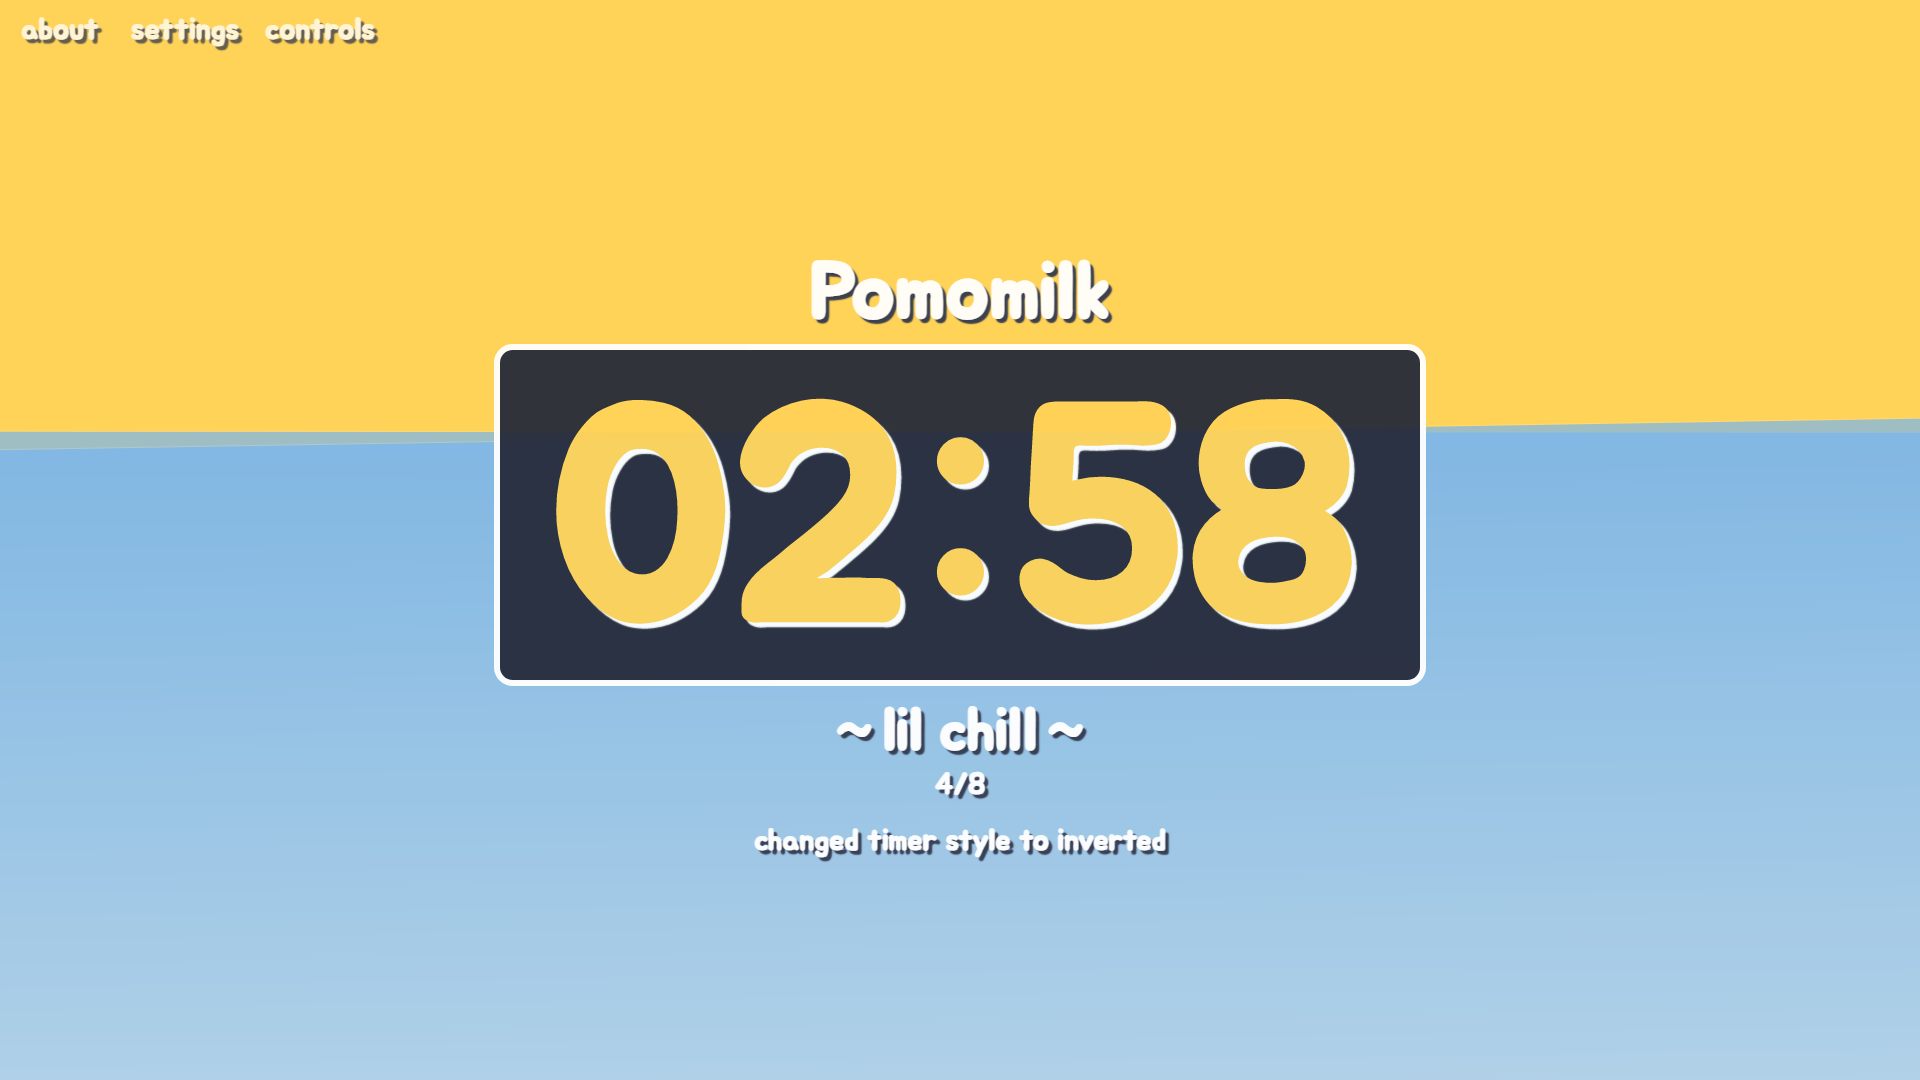
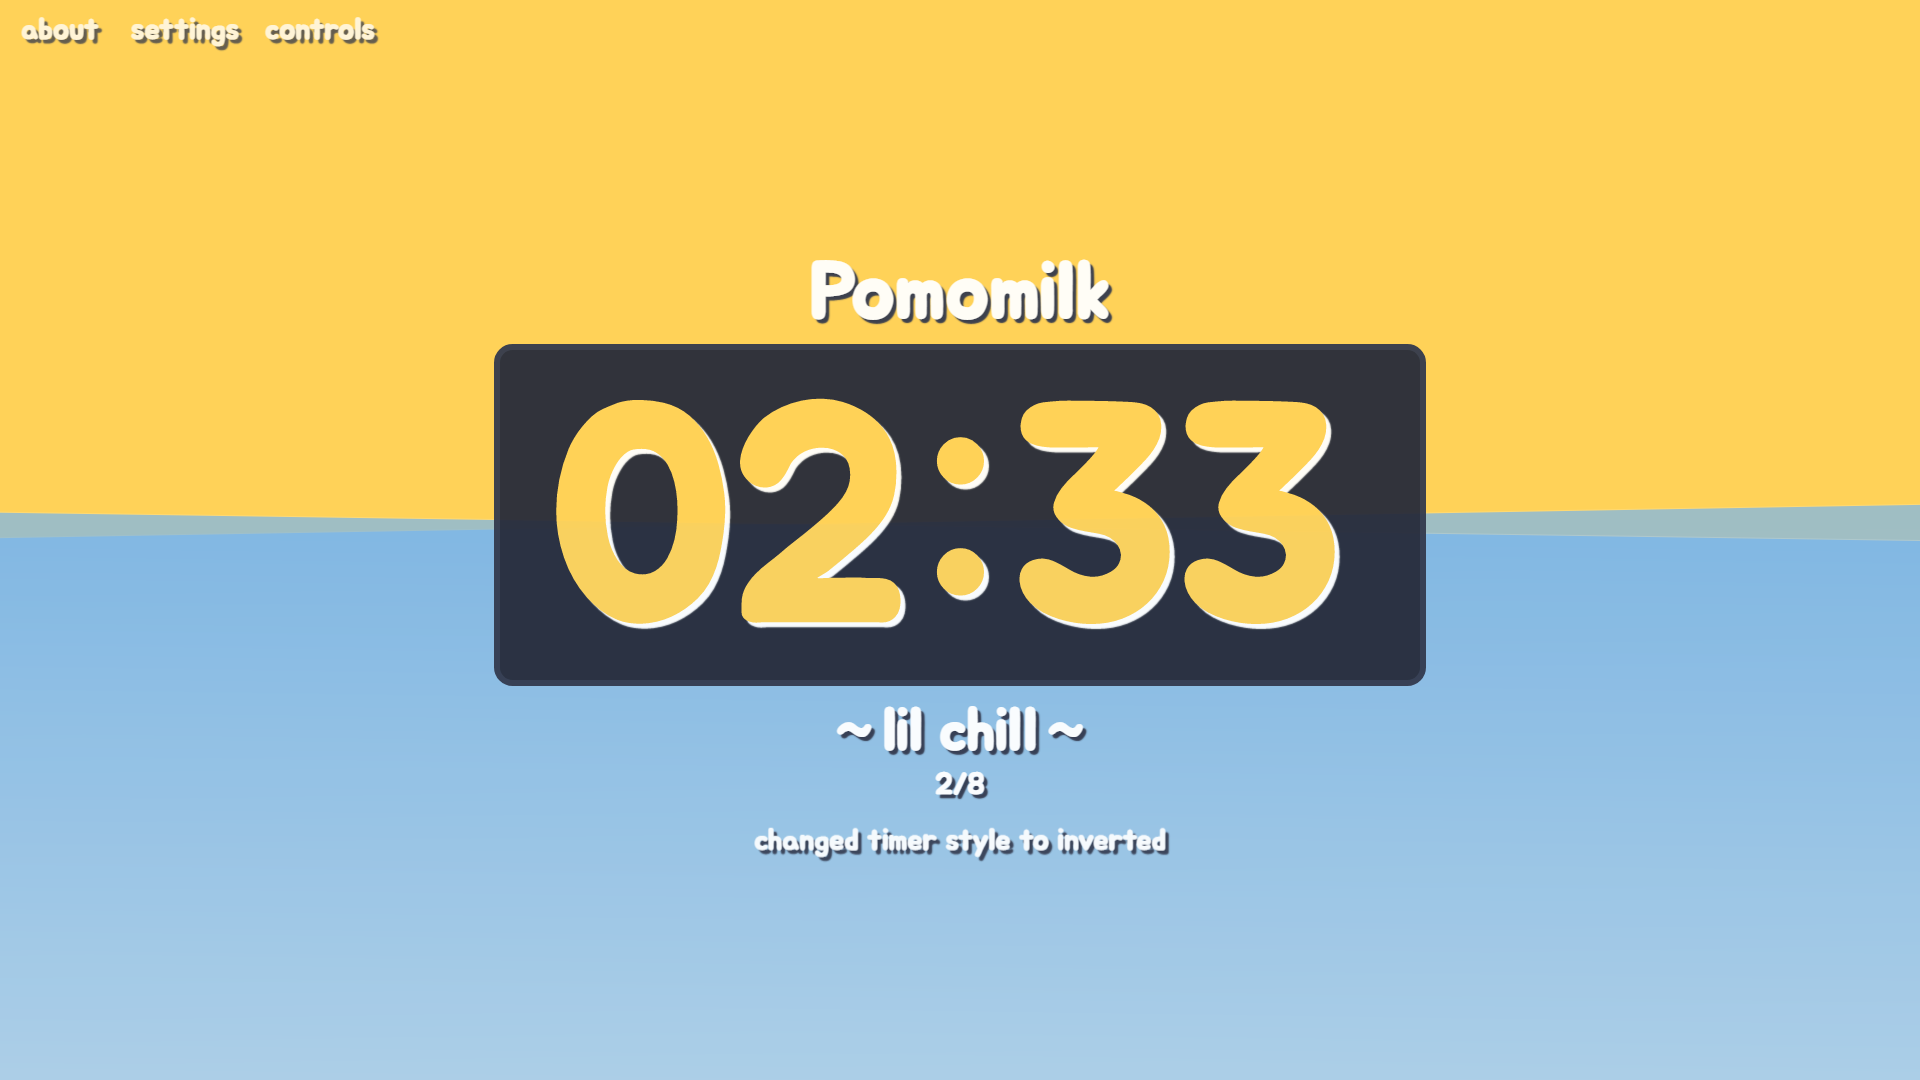
Update timer styles, README

diff --git a/src/components/Timer.scss b/src/components/Timer.scss
@@ -14,7 +14,7 @@
   }
   &.enabled {
     background-color: $darkest;
-    border: 5px solid $white;
+    border: 5px solid $dark;
   }
   &.shadow-focus h1 {
     text-shadow: 4px 4px 1px $green;

diff --git a/src/App.scss b/src/App.scss
@@ -106,6 +106,7 @@
     }
   }
   &.shift-down .Timer {
+    border-color: $white;
   }
   &.shift-focus .Timer {
     h1 {
